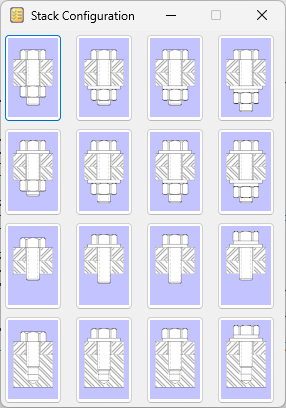
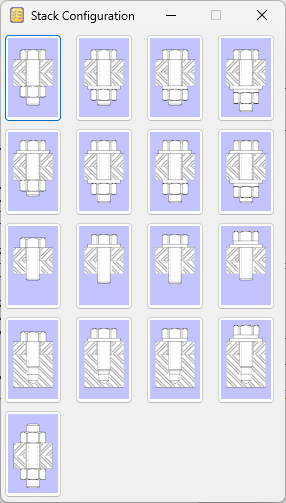
Related components search path

diff --git a/release_notes.md b/release_notes.md
@@ -15,25 +15,23 @@ Feel free to report bugs and/or ideas for improvement on the [<ins>**Solid Edge 
 
 ## V2026.1
 
-We'll get right to the updates, but first some exciting news -- Storekeeper has a new **Contributor!**  Our very own **@Seva** added a new part family -- ASME Flange Studs!  Can't wait for you to see his handiwork!
+We'll get right to the updates, but first some exciting news -- Storekeeper has a new **Contributor!**  Our very own **@Seva** added a new part family -- ASME Pipe Flanges!  Can't wait for you to see his handiwork!
 
 Now on to those updates...
 
-### ASME Flange Studs
+### ASME Pipe Flanges
 
 Contributed by **@Seva**.  Thank you!
 
-The new dataset covers raised and ring-joint flanges, pressure ratings from 150 to 2500 psi, and pipe sizes from 1/2" to 24" NPS.  
-
-You select your specs, and the program automatically finds the correct stud.  It even works with Fastener Stacks.  
-
-If you work with these components, this is going to save you a *ton* of time!
+The new dataset covers six common raised-flange types (butt-weld, threaded, etc.), pressure ratings from 150 to 2500 psi, and pipe sizes from 1/2" to 24" NPS.  
 
 <p align="center">
   <img src="media/asme_flange_stud.png">
 </p>
 
+The dataset also includes the related fastening studs.  For those, you select the pipe size and the system finds the correct stud.  They are compatible with Storekeeper's Fastener Stack and Auto-Patterning features.
 
+If you work with these components, this is going to save you a *ton* of time!
 
 
 ### Updated ISO Data and Templates
@@ -79,6 +77,7 @@ See the [<ins>**Creating New Templates Help Topic**</ins>](https://github.com/rm
 - Fixed an issue where the `Property Cache` was not properly updating if a file change was detected (Thank you one more time **@TeeVar**!)
 - Updated to the most recent OpenMcdf version
 - Fixed an issue where users running preview code were not notified when the finalized version was released.
+- Changed how fastener stack related-component tree locations are specified.  Now, the full path is used (eg. `Solid_Edge_Storekeeper\Ansi_Fasteners\Washer_Flat`).  Previously it was a relative path (eg. `..\..\Washer_Flat`).
 
 
 ## V2025.4

diff --git a/Readme.md b/Readme.md
@@ -295,7 +295,9 @@ A fastener stack is a grouping that consists of a fastener and related component
 
 ### Configuration and Use
 
-To select the stack style, click the `Configuration` button.  There are eight versions that employ nuts, and four each for thru and blind tapped holes.  Note, you only choose the fastener.  The related components are automatically selected based on the fastener diameter and thread.
+To select the stack style, click the `Configuration` button.  There are eight versions that employ nuts, and four each for thru- and blind-tapped holes.  The lone configuration on the last row is exclusively for ASME Flange studs.
+
+Note, you only choose the fastener.  The related components are automatically selected based on the fastener diameter and thread.
 
 <p align="center">
   <img src="media/fastener_stack_configuration.png">
@@ -331,11 +333,14 @@ To get `Thread depth` on blind holes, one way is to change selection priority fr
 
 ### Changing the Related Components
 
-In Storekeeper's `Preferences` directory, there are three files for each of the supplied datasets, `FlatWasher.json`,`LockWasher.json`, and `Nut.json`.  You can edit those in Notepad to point to the desired node in the `*.xml` tree.
+In Storekeeper's `Preferences` directory, there are three files for each of the supplied datasets, `FlatWasher.json`,`LockWasher.json`, and `Nut.json`.  
 
-Doing it like that is not user friendly in the least.  And wait until you see the tree traversal syntax.  It might be easier to go with the defaults, then use `Replace selected` to fix things up after the fact.  
+Here are the default contents of `FlatWasherSE2024.json`.
 
-Some care was taken in the creation of the templates to avoid breaking constraints when replacing parts.  Hopefully it won't create extra work if you decide to give it a try.
+`["Solid_Edge_Storekeeper\\Ansi_Fasteners\\Washer_Flat","Solid_Edge_Storekeeper\\Iso_Fasteners\\Washer_Flat"]`
+
+As you may recognize, it is a comma-delimited list in `JSON` format.  You can edit the files in Notepad to point to the desired node(s) in the `*.xml` tree.
+
 
 ## PRE-POPULATING THE LIBRARY
 
